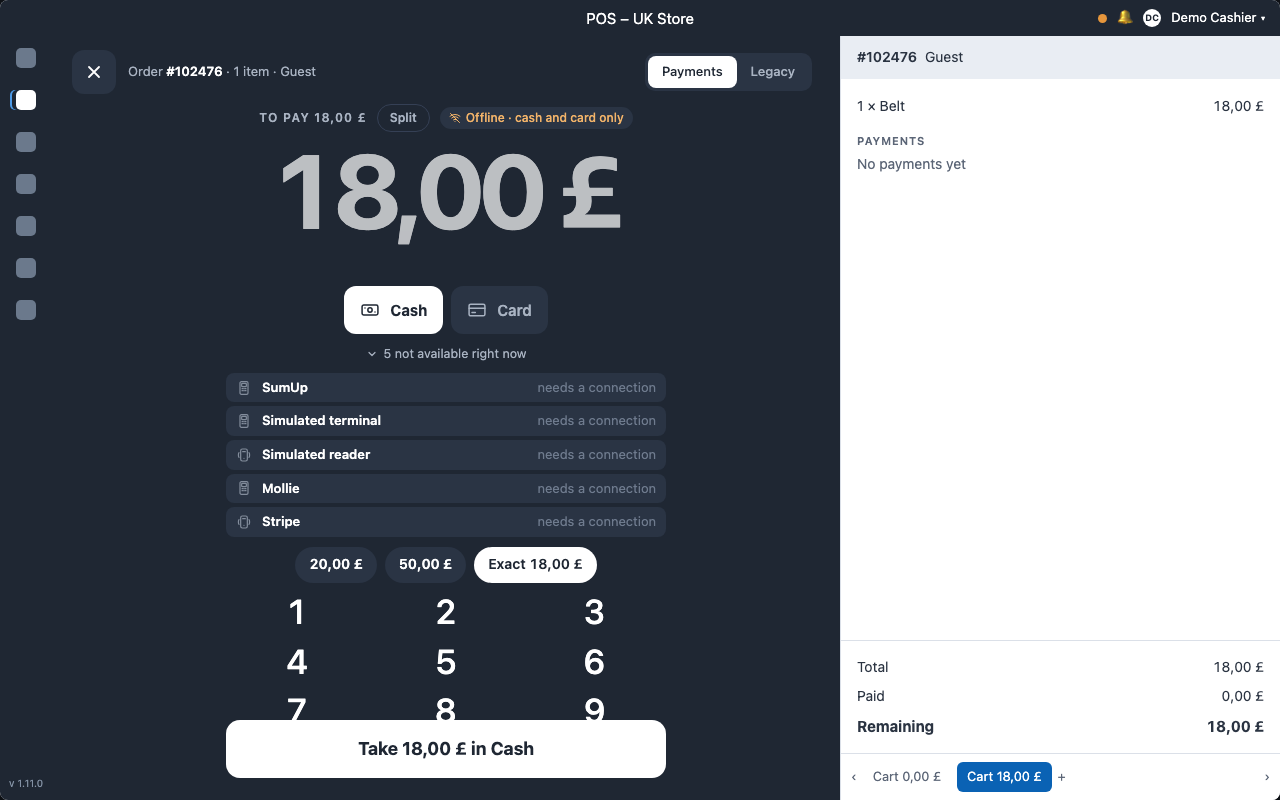
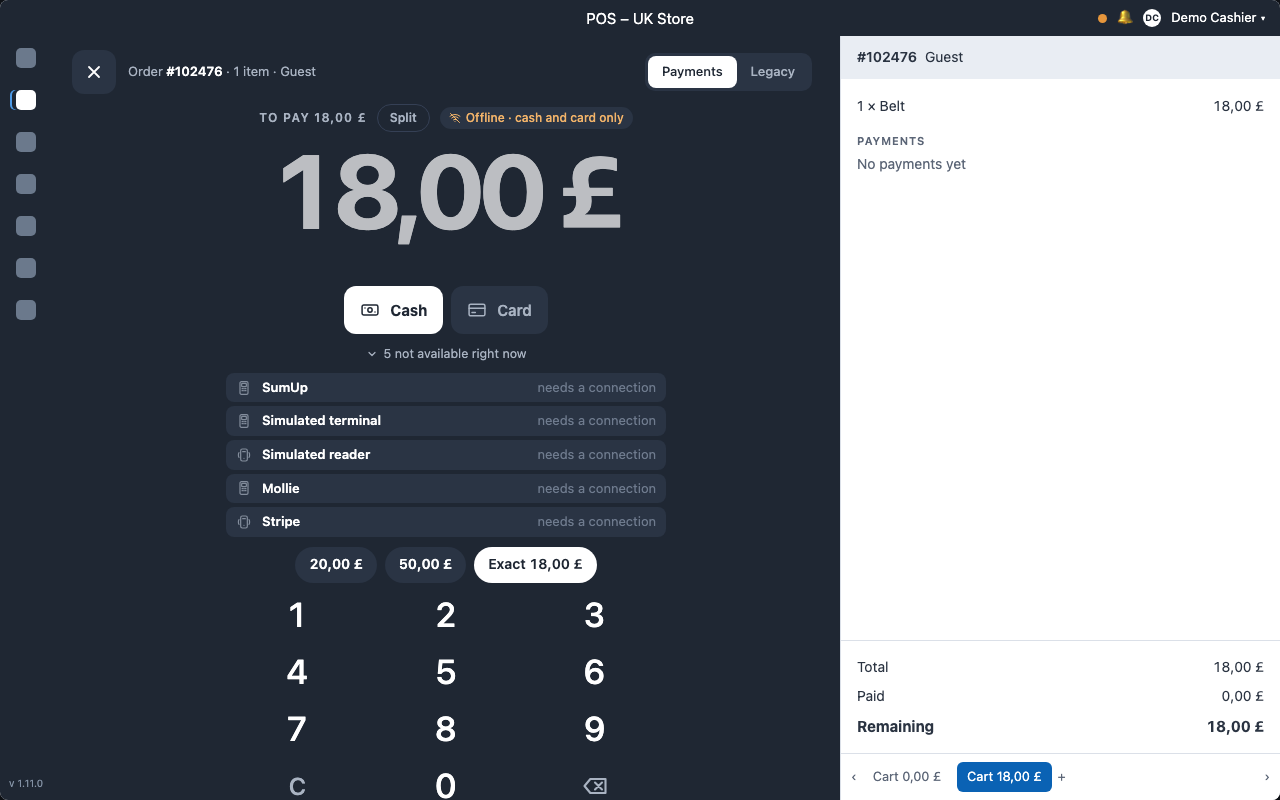
docs: tender pane — keypad keeps its height, pane scrolls when the unavailable list is open

Changed region(s): [[0.1562, 0.8125, 0.5312, 1.0], [0.4375, 0.75, 0.4688, 0.7812], [0.3438, 0.75, 0.375, 0.7812]]

diff --git a/docs/prototypes/2026-09-11-tender-pane-mockups/index.html b/docs/prototypes/2026-09-11-tender-pane-mockups/index.html
@@ -39,7 +39,7 @@
   .columns{display:grid;grid-template-columns:1fr 440px;min-height:0}
   .frame.phone .columns{grid-template-columns:1fr;grid-template-rows:1fr auto}
   /* ---- the pay surface ---- */
-  .pay{background:var(--pay);color:var(--pay-fg);display:flex;flex-direction:column;padding:14px 28px 22px;min-height:0;position:relative;overflow:hidden;transition:background .2s ease-out}
+  .pay{background:var(--pay);color:var(--pay-fg);display:flex;flex-direction:column;padding:14px 28px 22px;min-height:0;position:relative;overflow:auto;transition:background .2s ease-out}
   .frame.phone .pay{padding:10px 16px 16px}
   .hd{display:flex;align-items:center;gap:12px;font-size:13px;color:var(--pay-dim);min-height:44px}
   .hd .x{width:44px;height:44px;border-radius:12px;display:inline-flex;align-items:center;justify-content:center;color:var(--pay-fg);background:var(--pay-2);cursor:pointer;margin-left:-8px}
@@ -99,7 +99,7 @@
   .q{height:36px;padding:0 14px;border-radius:99px;background:var(--pay-2);color:var(--pay-fg);font-weight:600;font-size:14px;display:inline-flex;align-items:center;cursor:pointer;font-variant-numeric:tabular-nums;transition:transform .08s}
   .q:active{transform:scale(.96)}
   .q.on{background:var(--pay-fg);color:var(--pay)}
-  .keys{display:grid;grid-template-columns:repeat(3,1fr);gap:4px 6px;max-width:440px;width:100%;margin:6px auto 0;flex:1;min-height:0}
+  .keys{display:grid;grid-template-columns:repeat(3,1fr);gap:4px 6px;max-width:440px;width:100%;margin:6px auto 0;flex:1;min-height:224px}
   .frame.phone .keys{max-width:none;flex:none;grid-auto-rows:54px;margin-top:2px}
   .frame.phone .pay{overflow:auto}
   .frame.phone .sel{flex-wrap:nowrap;overflow-x:auto;justify-content:flex-start;padding-bottom:4px;margin-left:-16px;margin-right:-16px;padding-left:16px;padding-right:16px}
